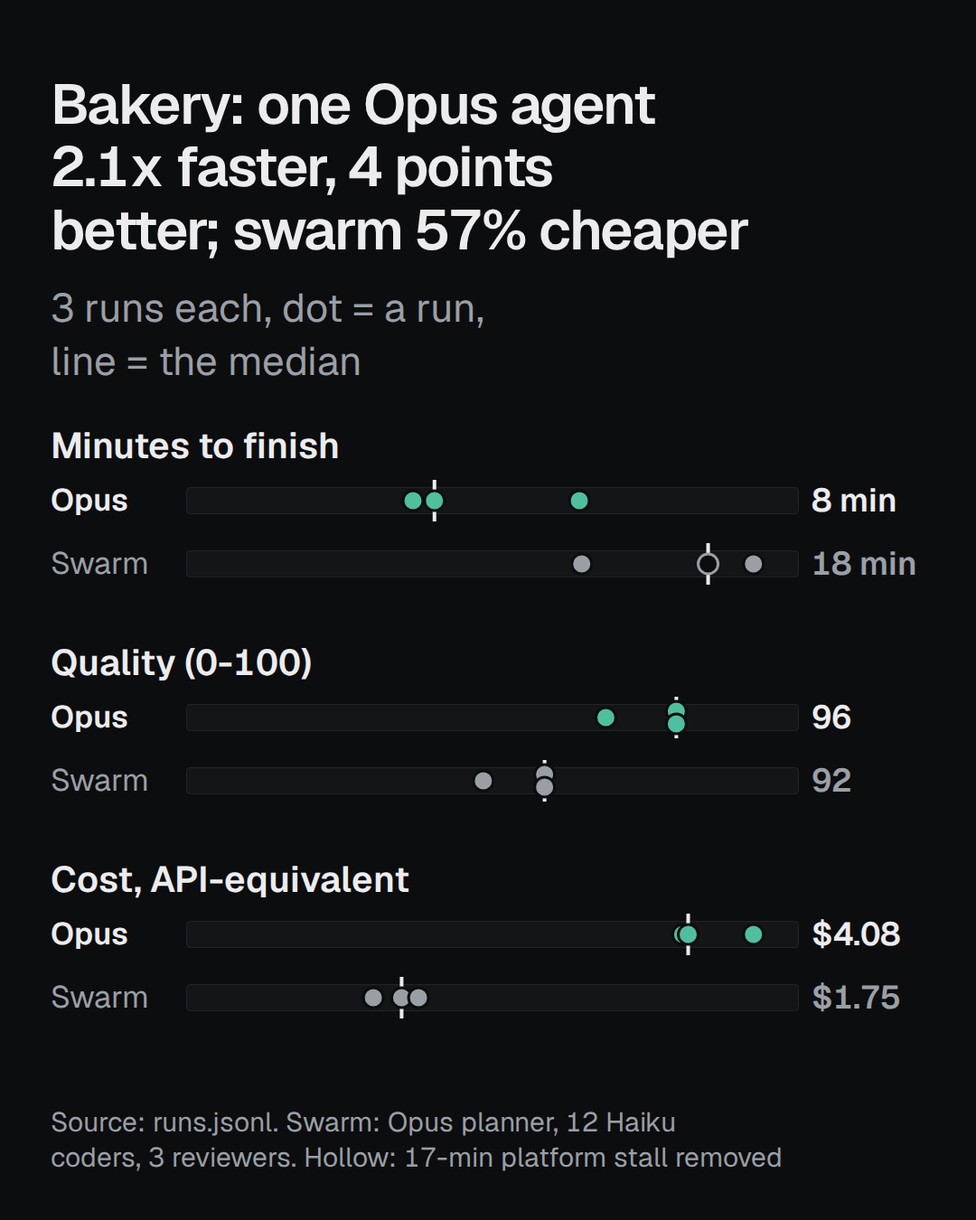
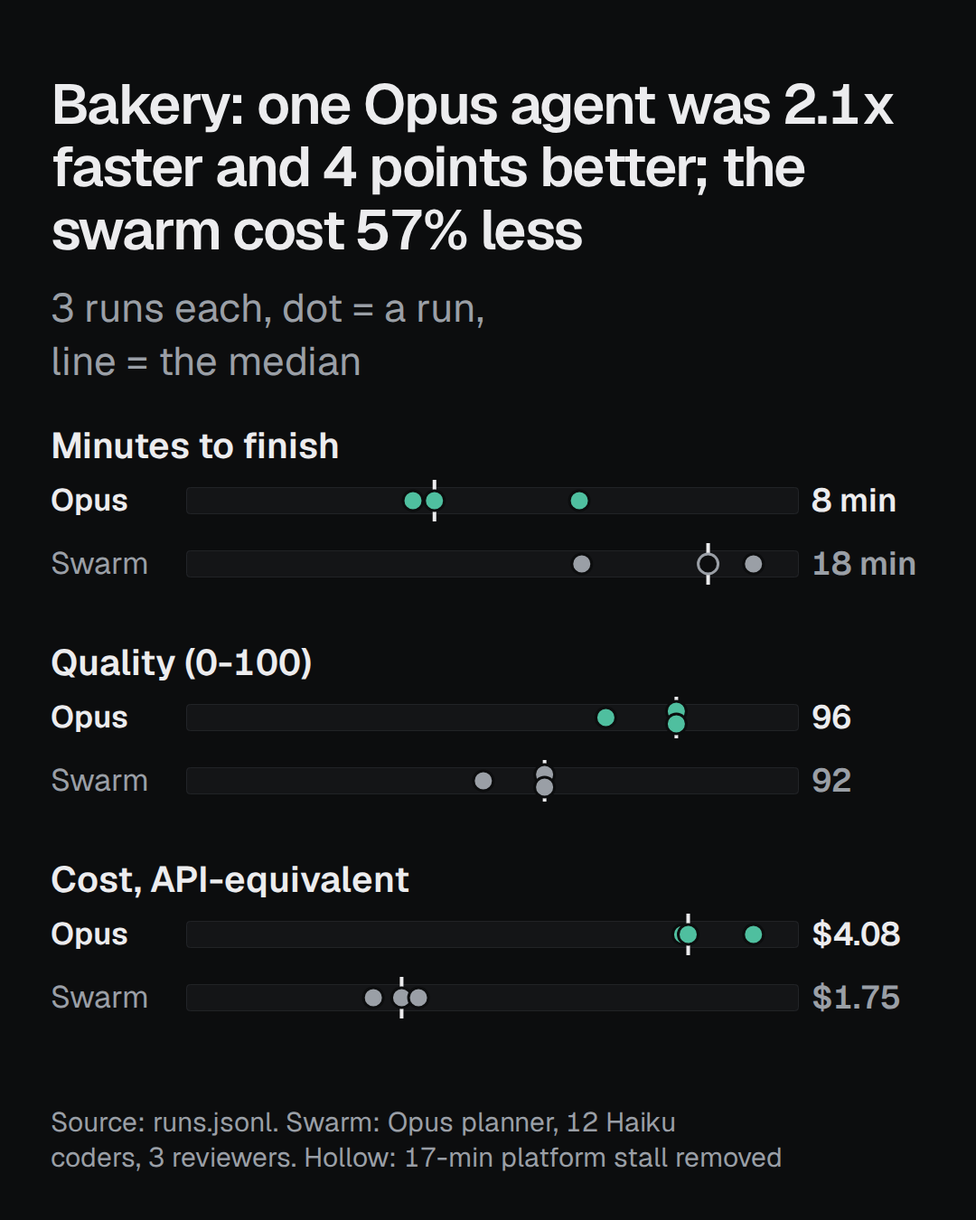
Lab charts: one generic one-Opus-vs-swarm chart per scenario (bakery now, club as soon as its runs land), headline worded from whichever way the numbers fall

Changed region(s): [[0.0611, 0.0622, 0.9167, 0.2178]]

diff --git a/docs/lab/charts/index.html b/docs/lab/charts/index.html
@@ -27,7 +27,7 @@ footer { margin-top: 56px; color: var(--dim); font-size: 13px; }
 <p>Real runs from public/lab/runs.jsonl: each dot is one run; quality is the lab score (hidden tests, floor, a Sonnet judge).</p></header>
 <section id="lab-bakery" aria-labelledby="lab-bakery-h">
 <h2 id="lab-bakery-h" hidden>Bakery: one Opus agent was 2.1x faster and 4 points better; the swarm cost 57% less</h2>
-<div class="L"><svg xmlns="http://www.w3.org/2000/svg" style="aspect-ratio:1920/1080" viewBox="0 0 1920 1080" role="img" aria-label="Bakery: one Opus agent was 2.1x faster and 4 points better; the swarm cost 57% less" font-family="Geist, 'Instrument Sans', system-ui, sans-serif"><rect width="1920" height="1080" fill="var(--bg)"/><text x="160" y="154.4" font-size="64" font-weight="600" fill="var(--fg)" letter-spacing="-1.6" style="font-variant-numeric:tabular-nums">Bakery: one Opus agent was 2.1x faster and 4 points better;</text><text x="160" y="226.08" font-size="64" font-weight="600" fill="var(--fg)" letter-spacing="-1.6" style="font-variant-numeric:tabular-nums">the swarm cost 57% less</text><text x="160" y="302.08000000000004" font-size="40" font-weight="400" fill="var(--dim)" style="font-variant-numeric:tabular-nums">3 runs each: a dot per run, a line at the median. The swarm is 16 agents</text><text x="520" y="390.08000000000004" font-size="36" font-weight="600" fill="var(--fg)" style="font-variant-numeric:tabular-nums">Minutes to finish</text><text x="160" y="459.08000000000004" font-size="36" font-weight="600" fill="var(--fg)" style="font-variant-numeric:tabular-nums">One Opus agent</text><rect x="520" y="432.08000000000004" width="240" height="30" rx="4" fill="var(--card)"/><rect x="520.5" y="432.58000000000004" width="239" height="29" rx="4" fill="none" stroke="var(--line)"/><rect x="615.2580491067163" y="424.08000000000004" width="4" height="46" fill="var(--fg)"><title>One Opus agent, median 8 min</title></rect><circle cx="674.0078341454093" cy="447.08000000000004" r="11" fill="var(--acc)" stroke="var(--bg)" stroke-width="3"/><circle cx="608.8506735454284" cy="447.08000000000004" r="11" fill="var(--acc)" stroke="var(--bg)" stroke-width="3"/><circle cx="617.2580491067163" cy="447.08000000000004" r="11" fill="var(--acc)" stroke="var(--bg)" stroke-width="3"/><text x="774" y="459.08000000000004" font-size="40" font-weight="600" fill="var(--fg)" style="font-variant-numeric:tabular-nums">8 min</text><text x="160" y="559.08" font-size="36" font-weight="400" fill="var(--dim)" style="font-variant-numeric:tabular-nums">Swarm (16 agents)</text><rect x="520" y="532.08" width="240" height="30" rx="4" fill="var(--card)"/><rect x="520.5" y="532.58" width="239" height="29" rx="4" fill="none" stroke="var(--line)"/><rect x="722.4520875131365" y="524.08" width="4" height="46" fill="var(--fg)"><title>Swarm (16 agents), median 18 min</title></rect><circle cx="674.9632177319194" cy="547.08" r="11" fill="var(--dim)" stroke="var(--bg)" stroke-width="3"/><circle cx="742.2222222222222" cy="547.08" r="11" fill="var(--dim)" stroke="var(--bg)" stroke-width="3"/><circle cx="724.4520875131365" cy="547.08" r="11" fill="var(--bg)" stroke="var(--dim)" stroke-width="3"/><text x="774" y="559.08" font-size="40" font-weight="600" fill="var(--dim)" style="font-variant-numeric:tabular-nums">18 min</text><text x="950" y="390.08000000000004" font-size="36" font-weight="600" fill="var(--fg)" style="font-variant-numeric:tabular-nums">Quality (0-100)</text><rect x="950" y="432.08000000000004" width="240" height="30" rx="4" fill="var(--card)"/><rect x="950.5" y="432.58000000000004" width="239" height="29" rx="4" fill="none" stroke="var(--line)"/><rect x="1140" y="424.08000000000004" width="4" height="46" fill="var(--fg)"><title>One Opus agent, median 96</title></rect><circle cx="1142" cy="440.08000000000004" r="11" fill="var(--acc)" stroke="var(--bg)" stroke-width="3"/><circle cx="1142" cy="454.08000000000004" r="11" fill="var(--acc)" stroke="var(--bg)" stroke-width="3"/><circle cx="1114.4" cy="447.08000000000004" r="11" fill="var(--acc)" stroke="var(--bg)" stroke-width="3"/><text x="1204" y="459.08000000000004" font-size="40" font-weight="600" fill="var(--fg)" style="font-variant-numeric:tabular-nums">96</text><rect x="950" y="532.08" width="240" height="30" rx="4" fill="var(--card)"/><rect x="950.5" y="532.58" width="239" height="29" rx="4" fill="none" stroke="var(--line)"/><rect x="1088.4" y="524.08" width="4" height="46" fill="var(--fg)"><title>Swarm (16 agents), median 92</title></rect><circle cx="1066.4" cy="547.08" r="11" fill="var(--dim)" stroke="var(--bg)" stroke-width="3"/><circle cx="1090.4" cy="540.08" r="11" fill="var(--dim)" stroke="var(--bg)" stroke-width="3"/><circle cx="1090.4" cy="554.08" r="11" fill="var(--dim)" stroke="var(--bg)" stroke-width="3"/><text x="1204" y="559.08" font-size="40" font-weight="600" fill="var(--dim)" style="font-variant-numeric:tabular-nums">92</text><text x="1380" y="390.08000000000004" font-size="36" font-weight="600" fill="var(--fg)" style="font-variant-numeric:tabular-nums">Cost, API-equivalent</text><rect x="1380" y="432.08000000000004" width="240" height="30" rx="4" fill="var(--card)"/><rect x="1380.5" y="432.58000000000004" width="239" height="29" rx="4" fill="none" stroke="var(--line)"/><rect x="1574.6423392827035" y="424.08000000000004" width="4" height="46" fill="var(--fg)"><title>One Opus agent, median $4.08</title></rect><circle cx="1574.4745525929138" cy="447.08000000000004" r="11" fill="var(--acc)" stroke="var(--bg)" stroke-width="3"/><circle cx="1576.6423392827035" cy="447.08000000000004" r="11" fill="var(--acc)" stroke="var(--bg)" stroke-width="3"/><circle cx="1602.2222222222222" cy="447.08000000000004" r="11" fill="var(--acc)" stroke="var(--bg)" stroke-width="3"/><text x="1634" y="459.08000000000004" font-size="40" font-weight="600" fill="var(--fg)" style="font-variant-numeric:tabular-nums">$4.08</text><rect x="1380" y="532.08" width="240" height="30" rx="4" fill="var(--card)"/><rect x="1380.5" y="532.58" width="239" height="29" rx="4" fill="none" stroke="var(--line)"/><rect x="1462.3991617891465" y="524.08" width="4" height="46" fill="var(--fg)"><title>Swarm (16 agents), median $1.75</title></rect><circle cx="1464.3991617891465" cy="547.08" r="11" fill="var(--dim)" stroke="var(--bg)" stroke-width="3"/><circle cx="1453.3193631524437" cy="547.08" r="11" fill="var(--dim)" stroke="var(--bg)" stroke-width="3"/><circle cx="1470.9988679336175" cy="547.08" r="11" fill="var(--dim)" stroke="var(--bg)" stroke-width="3"/><text x="1634" y="559.08" font-size="40" font-weight="600" fill="var(--dim)" style="font-variant-numeric:tabular-nums">$1.75</text><text x="160" y="840" font-size="26" font-weight="400" fill="var(--dim)" style="font-variant-numeric:tabular-nums">Source: runs.jsonl. Swarm: Opus planner, 12 Haiku coders, 3 reviewers. Hollow: 17-min platform stall removed</text></svg></div><div class="P"><svg xmlns="http://www.w3.org/2000/svg" style="aspect-ratio:1080/1350" viewBox="0 0 1080 1350" role="img" aria-label="Bakery: one Opus agent was 2.1x faster and 4 points better; the swarm cost 57% less" font-family="Geist, 'Instrument Sans', system-ui, sans-serif"><rect width="1080" height="1350" fill="var(--bg)"/><text x="56" y="136.7" font-size="62" font-weight="600" fill="var(--fg)" letter-spacing="-1.6" style="font-variant-numeric:tabular-nums">Bakery: one Opus agent</text><text x="56" y="206.14" font-size="62" font-weight="600" fill="var(--fg)" letter-spacing="-1.6" style="font-variant-numeric:tabular-nums">2.1x faster, 4 points</text><text x="56" y="275.58000000000004" font-size="62" font-weight="600" fill="var(--fg)" letter-spacing="-1.6" style="font-variant-numeric:tabular-nums">better; swarm 57% cheaper</text><text x="56" y="355.58000000000004" font-size="44" font-weight="400" fill="var(--dim)" style="font-variant-numeric:tabular-nums">3 runs each, dot = a run,</text><text x="56" y="414.98" font-size="44" font-weight="400" fill="var(--dim)" style="font-variant-numeric:tabular-nums">line = the median</text><text x="56" y="506.98" font-size="40" font-weight="600" fill="var(--fg)" style="font-variant-numeric:tabular-nums">Minutes to finish</text><text x="56" y="564.98" font-size="34" font-weight="600" fill="var(--fg)" style="font-variant-numeric:tabular-nums">Opus</text><rect x="206" y="538.98" width="678" height="30" rx="4" fill="var(--card)"/><rect x="206.5" y="539.48" width="677" height="29" rx="4" fill="none" stroke="var(--line)"/><rect x="478.75398872647366" y="530.98" width="4" height="46" fill="var(--fg)"><title>One Opus agent, median 8 min</title></rect><circle cx="641.0721314607815" cy="553.98" r="11" fill="var(--acc)" stroke="var(--bg)" stroke-width="3"/><circle cx="457.00315276583547" cy="553.98" r="11" fill="var(--acc)" stroke="var(--bg)" stroke-width="3"/><circle cx="480.75398872647366" cy="553.98" r="11" fill="var(--acc)" stroke="var(--bg)" stroke-width="3"/><text x="898" y="565.98" font-size="36" font-weight="600" fill="var(--fg)" style="font-variant-numeric:tabular-nums">8 min</text><text x="56" y="634.98" font-size="34" font-weight="400" fill="var(--dim)" style="font-variant-numeric:tabular-nums">Swarm</text><rect x="206" y="608.98" width="678" height="30" rx="4" fill="var(--card)"/><rect x="206.5" y="609.48" width="677" height="29" rx="4" fill="none" stroke="var(--line)"/><rect x="781.5771472246106" y="600.98" width="4" height="46" fill="var(--fg)"><title>Swarm (16 agents), median 18 min</title></rect><circle cx="643.7710900926722" cy="623.98" r="11" fill="var(--dim)" stroke="var(--bg)" stroke-width="3"/><circle cx="833.7777777777777" cy="623.98" r="11" fill="var(--dim)" stroke="var(--bg)" stroke-width="3"/><circle cx="783.5771472246106" cy="623.98" r="11" fill="var(--bg)" stroke="var(--dim)" stroke-width="3"/><text x="898" y="635.98" font-size="36" font-weight="600" fill="var(--dim)" style="font-variant-numeric:tabular-nums">18 min</text><text x="56" y="746.98" font-size="40" font-weight="600" fill="var(--fg)" style="font-variant-numeric:tabular-nums">Quality (0-100)</text><text x="56" y="804.98" font-size="34" font-weight="600" fill="var(--fg)" style="font-variant-numeric:tabular-nums">Opus</text><rect x="206" y="778.98" width="678" height="30" rx="4" fill="var(--card)"/><rect x="206.5" y="779.48" width="677" height="29" rx="4" fill="none" stroke="var(--line)"/><rect x="746.4" y="770.98" width="4" height="46" fill="var(--fg)"><title>One Opus agent, median 96</title></rect><circle cx="748.4" cy="786.98" r="11" fill="var(--acc)" stroke="var(--bg)" stroke-width="3"/><circle cx="748.4" cy="800.98" r="11" fill="var(--acc)" stroke="var(--bg)" stroke-width="3"/><circle cx="670.4300000000001" cy="793.98" r="11" fill="var(--acc)" stroke="var(--bg)" stroke-width="3"/><text x="898" y="805.98" font-size="36" font-weight="600" fill="var(--fg)" style="font-variant-numeric:tabular-nums">96</text><text x="56" y="874.98" font-size="34" font-weight="400" fill="var(--dim)" style="font-variant-numeric:tabular-nums">Swarm</text><rect x="206" y="848.98" width="678" height="30" rx="4" fill="var(--card)"/><rect x="206.5" y="849.48" width="677" height="29" rx="4" fill="none" stroke="var(--line)"/><rect x="600.6300000000001" y="840.98" width="4" height="46" fill="var(--fg)"><title>Swarm (16 agents), median 92</title></rect><circle cx="534.8300000000002" cy="863.98" r="11" fill="var(--dim)" stroke="var(--bg)" stroke-width="3"/><circle cx="602.6300000000001" cy="856.98" r="11" fill="var(--dim)" stroke="var(--bg)" stroke-width="3"/><circle cx="602.6300000000001" cy="870.98" r="11" fill="var(--dim)" stroke="var(--bg)" stroke-width="3"/><text x="898" y="875.98" font-size="36" font-weight="600" fill="var(--dim)" style="font-variant-numeric:tabular-nums">92</text><text x="56" y="986.98" font-size="40" font-weight="600" fill="var(--fg)" style="font-variant-numeric:tabular-nums">Cost, API-equivalent</text><text x="56" y="1044.98" font-size="34" font-weight="600" fill="var(--fg)" style="font-variant-numeric:tabular-nums">Opus</text><rect x="206" y="1018.98" width="678" height="30" rx="4" fill="var(--card)"/><rect x="206.5" y="1019.48" width="677" height="29" rx="4" fill="none" stroke="var(--line)"/><rect x="759.5146084736373" y="1010.98" width="4" height="46" fill="var(--fg)"><title>One Opus agent, median $4.08</title></rect><circle cx="755.3906110749813" cy="1033.98" r="11" fill="var(--acc)" stroke="var(--bg)" stroke-width="3"/><circle cx="761.5146084736373" cy="1033.98" r="11" fill="var(--acc)" stroke="var(--bg)" stroke-width="3"/><circle cx="833.7777777777778" cy="1033.98" r="11" fill="var(--acc)" stroke="var(--bg)" stroke-width="3"/><text x="898" y="1045.98" font-size="36" font-weight="600" fill="var(--fg)" style="font-variant-numeric:tabular-nums">$4.08</text><text x="56" y="1114.98" font-size="34" font-weight="400" fill="var(--dim)" style="font-variant-numeric:tabular-nums">Swarm</text><rect x="206" y="1088.98" width="678" height="30" rx="4" fill="var(--card)"/><rect x="206.5" y="1089.48" width="677" height="29" rx="4" fill="none" stroke="var(--line)"/><rect x="442.42763205433914" y="1080.98" width="4" height="46" fill="var(--fg)"><title>Swarm (16 agents), median $1.75</title></rect><circle cx="444.42763205433914" cy="1103.98" r="11" fill="var(--dim)" stroke="var(--bg)" stroke-width="3"/><circle cx="413.1272009056531" cy="1103.98" r="11" fill="var(--dim)" stroke="var(--bg)" stroke-width="3"/><circle cx="463.0718019124696" cy="1103.98" r="11" fill="var(--dim)" stroke="var(--bg)" stroke-width="3"/><text x="898" y="1115.98" font-size="36" font-weight="600" fill="var(--dim)" style="font-variant-numeric:tabular-nums">$1.75</text><text x="56" y="1252" font-size="30" font-weight="400" fill="var(--dim)" style="font-variant-numeric:tabular-nums">Source: runs.jsonl. Swarm: Opus planner, 12 Haiku</text><text x="56" y="1291" font-size="30" font-weight="400" fill="var(--dim)" style="font-variant-numeric:tabular-nums">coders, 3 reviewers. Hollow: 17-min platform stall removed</text></svg></div>
+<div class="L"><svg xmlns="http://www.w3.org/2000/svg" style="aspect-ratio:1920/1080" viewBox="0 0 1920 1080" role="img" aria-label="Bakery: one Opus agent was 2.1x faster and 4 points better; the swarm cost 57% less" font-family="Geist, 'Instrument Sans', system-ui, sans-serif"><rect width="1920" height="1080" fill="var(--bg)"/><text x="160" y="154.4" font-size="64" font-weight="600" fill="var(--fg)" letter-spacing="-1.6" style="font-variant-numeric:tabular-nums">Bakery: one Opus agent was 2.1x faster and 4 points better;</text><text x="160" y="226.08" font-size="64" font-weight="600" fill="var(--fg)" letter-spacing="-1.6" style="font-variant-numeric:tabular-nums">the swarm cost 57% less</text><text x="160" y="302.08000000000004" font-size="40" font-weight="400" fill="var(--dim)" style="font-variant-numeric:tabular-nums">3 runs each: a dot per run, a line at the median. The swarm is 16 agents</text><text x="520" y="390.08000000000004" font-size="36" font-weight="600" fill="var(--fg)" style="font-variant-numeric:tabular-nums">Minutes to finish</text><text x="160" y="459.08000000000004" font-size="36" font-weight="600" fill="var(--fg)" style="font-variant-numeric:tabular-nums">One Opus agent</text><rect x="520" y="432.08000000000004" width="240" height="30" rx="4" fill="var(--card)"/><rect x="520.5" y="432.58000000000004" width="239" height="29" rx="4" fill="none" stroke="var(--line)"/><rect x="615.2580491067163" y="424.08000000000004" width="4" height="46" fill="var(--fg)"><title>One Opus agent, median 8 min</title></rect><circle cx="674.0078341454093" cy="447.08000000000004" r="11" fill="var(--acc)" stroke="var(--bg)" stroke-width="3"/><circle cx="608.8506735454284" cy="447.08000000000004" r="11" fill="var(--acc)" stroke="var(--bg)" stroke-width="3"/><circle cx="617.2580491067163" cy="447.08000000000004" r="11" fill="var(--acc)" stroke="var(--bg)" stroke-width="3"/><text x="774" y="459.08000000000004" font-size="40" font-weight="600" fill="var(--fg)" style="font-variant-numeric:tabular-nums">8 min</text><text x="160" y="559.08" font-size="36" font-weight="400" fill="var(--dim)" style="font-variant-numeric:tabular-nums">Swarm (16 agents)</text><rect x="520" y="532.08" width="240" height="30" rx="4" fill="var(--card)"/><rect x="520.5" y="532.58" width="239" height="29" rx="4" fill="none" stroke="var(--line)"/><rect x="722.4520875131365" y="524.08" width="4" height="46" fill="var(--fg)"><title>Swarm (16 agents), median 18 min</title></rect><circle cx="674.9632177319194" cy="547.08" r="11" fill="var(--dim)" stroke="var(--bg)" stroke-width="3"/><circle cx="742.2222222222222" cy="547.08" r="11" fill="var(--dim)" stroke="var(--bg)" stroke-width="3"/><circle cx="724.4520875131365" cy="547.08" r="11" fill="var(--bg)" stroke="var(--dim)" stroke-width="3"/><text x="774" y="559.08" font-size="40" font-weight="600" fill="var(--dim)" style="font-variant-numeric:tabular-nums">18 min</text><text x="950" y="390.08000000000004" font-size="36" font-weight="600" fill="var(--fg)" style="font-variant-numeric:tabular-nums">Quality (0-100)</text><rect x="950" y="432.08000000000004" width="240" height="30" rx="4" fill="var(--card)"/><rect x="950.5" y="432.58000000000004" width="239" height="29" rx="4" fill="none" stroke="var(--line)"/><rect x="1140" y="424.08000000000004" width="4" height="46" fill="var(--fg)"><title>One Opus agent, median 96</title></rect><circle cx="1142" cy="440.08000000000004" r="11" fill="var(--acc)" stroke="var(--bg)" stroke-width="3"/><circle cx="1142" cy="454.08000000000004" r="11" fill="var(--acc)" stroke="var(--bg)" stroke-width="3"/><circle cx="1114.4" cy="447.08000000000004" r="11" fill="var(--acc)" stroke="var(--bg)" stroke-width="3"/><text x="1204" y="459.08000000000004" font-size="40" font-weight="600" fill="var(--fg)" style="font-variant-numeric:tabular-nums">96</text><rect x="950" y="532.08" width="240" height="30" rx="4" fill="var(--card)"/><rect x="950.5" y="532.58" width="239" height="29" rx="4" fill="none" stroke="var(--line)"/><rect x="1088.4" y="524.08" width="4" height="46" fill="var(--fg)"><title>Swarm (16 agents), median 92</title></rect><circle cx="1066.4" cy="547.08" r="11" fill="var(--dim)" stroke="var(--bg)" stroke-width="3"/><circle cx="1090.4" cy="540.08" r="11" fill="var(--dim)" stroke="var(--bg)" stroke-width="3"/><circle cx="1090.4" cy="554.08" r="11" fill="var(--dim)" stroke="var(--bg)" stroke-width="3"/><text x="1204" y="559.08" font-size="40" font-weight="600" fill="var(--dim)" style="font-variant-numeric:tabular-nums">92</text><text x="1380" y="390.08000000000004" font-size="36" font-weight="600" fill="var(--fg)" style="font-variant-numeric:tabular-nums">Cost, API-equivalent</text><rect x="1380" y="432.08000000000004" width="240" height="30" rx="4" fill="var(--card)"/><rect x="1380.5" y="432.58000000000004" width="239" height="29" rx="4" fill="none" stroke="var(--line)"/><rect x="1574.6423392827035" y="424.08000000000004" width="4" height="46" fill="var(--fg)"><title>One Opus agent, median $4.08</title></rect><circle cx="1574.4745525929138" cy="447.08000000000004" r="11" fill="var(--acc)" stroke="var(--bg)" stroke-width="3"/><circle cx="1576.6423392827035" cy="447.08000000000004" r="11" fill="var(--acc)" stroke="var(--bg)" stroke-width="3"/><circle cx="1602.2222222222222" cy="447.08000000000004" r="11" fill="var(--acc)" stroke="var(--bg)" stroke-width="3"/><text x="1634" y="459.08000000000004" font-size="40" font-weight="600" fill="var(--fg)" style="font-variant-numeric:tabular-nums">$4.08</text><rect x="1380" y="532.08" width="240" height="30" rx="4" fill="var(--card)"/><rect x="1380.5" y="532.58" width="239" height="29" rx="4" fill="none" stroke="var(--line)"/><rect x="1462.3991617891465" y="524.08" width="4" height="46" fill="var(--fg)"><title>Swarm (16 agents), median $1.75</title></rect><circle cx="1464.3991617891465" cy="547.08" r="11" fill="var(--dim)" stroke="var(--bg)" stroke-width="3"/><circle cx="1453.3193631524437" cy="547.08" r="11" fill="var(--dim)" stroke="var(--bg)" stroke-width="3"/><circle cx="1470.9988679336175" cy="547.08" r="11" fill="var(--dim)" stroke="var(--bg)" stroke-width="3"/><text x="1634" y="559.08" font-size="40" font-weight="600" fill="var(--dim)" style="font-variant-numeric:tabular-nums">$1.75</text><text x="160" y="840" font-size="26" font-weight="400" fill="var(--dim)" style="font-variant-numeric:tabular-nums">Source: runs.jsonl. Swarm: Opus planner, 12 Haiku coders, 3 reviewers. Hollow: 17-min platform stall removed</text></svg></div><div class="P"><svg xmlns="http://www.w3.org/2000/svg" style="aspect-ratio:1080/1350" viewBox="0 0 1080 1350" role="img" aria-label="Bakery: one Opus agent was 2.1x faster and 4 points better; the swarm cost 57% less" font-family="Geist, 'Instrument Sans', system-ui, sans-serif"><rect width="1080" height="1350" fill="var(--bg)"/><text x="56" y="136.7" font-size="62" font-weight="600" fill="var(--fg)" letter-spacing="-1.6" style="font-variant-numeric:tabular-nums">Bakery: one Opus agent was 2.1x</text><text x="56" y="206.14" font-size="62" font-weight="600" fill="var(--fg)" letter-spacing="-1.6" style="font-variant-numeric:tabular-nums">faster and 4 points better; the</text><text x="56" y="275.58000000000004" font-size="62" font-weight="600" fill="var(--fg)" letter-spacing="-1.6" style="font-variant-numeric:tabular-nums">swarm cost 57% less</text><text x="56" y="355.58000000000004" font-size="44" font-weight="400" fill="var(--dim)" style="font-variant-numeric:tabular-nums">3 runs each, dot = a run,</text><text x="56" y="414.98" font-size="44" font-weight="400" fill="var(--dim)" style="font-variant-numeric:tabular-nums">line = the median</text><text x="56" y="506.98" font-size="40" font-weight="600" fill="var(--fg)" style="font-variant-numeric:tabular-nums">Minutes to finish</text><text x="56" y="564.98" font-size="34" font-weight="600" fill="var(--fg)" style="font-variant-numeric:tabular-nums">Opus</text><rect x="206" y="538.98" width="678" height="30" rx="4" fill="var(--card)"/><rect x="206.5" y="539.48" width="677" height="29" rx="4" fill="none" stroke="var(--line)"/><rect x="478.75398872647366" y="530.98" width="4" height="46" fill="var(--fg)"><title>One Opus agent, median 8 min</title></rect><circle cx="641.0721314607815" cy="553.98" r="11" fill="var(--acc)" stroke="var(--bg)" stroke-width="3"/><circle cx="457.00315276583547" cy="553.98" r="11" fill="var(--acc)" stroke="var(--bg)" stroke-width="3"/><circle cx="480.75398872647366" cy="553.98" r="11" fill="var(--acc)" stroke="var(--bg)" stroke-width="3"/><text x="898" y="565.98" font-size="36" font-weight="600" fill="var(--fg)" style="font-variant-numeric:tabular-nums">8 min</text><text x="56" y="634.98" font-size="34" font-weight="400" fill="var(--dim)" style="font-variant-numeric:tabular-nums">Swarm</text><rect x="206" y="608.98" width="678" height="30" rx="4" fill="var(--card)"/><rect x="206.5" y="609.48" width="677" height="29" rx="4" fill="none" stroke="var(--line)"/><rect x="781.5771472246106" y="600.98" width="4" height="46" fill="var(--fg)"><title>Swarm (16 agents), median 18 min</title></rect><circle cx="643.7710900926722" cy="623.98" r="11" fill="var(--dim)" stroke="var(--bg)" stroke-width="3"/><circle cx="833.7777777777777" cy="623.98" r="11" fill="var(--dim)" stroke="var(--bg)" stroke-width="3"/><circle cx="783.5771472246106" cy="623.98" r="11" fill="var(--bg)" stroke="var(--dim)" stroke-width="3"/><text x="898" y="635.98" font-size="36" font-weight="600" fill="var(--dim)" style="font-variant-numeric:tabular-nums">18 min</text><text x="56" y="746.98" font-size="40" font-weight="600" fill="var(--fg)" style="font-variant-numeric:tabular-nums">Quality (0-100)</text><text x="56" y="804.98" font-size="34" font-weight="600" fill="var(--fg)" style="font-variant-numeric:tabular-nums">Opus</text><rect x="206" y="778.98" width="678" height="30" rx="4" fill="var(--card)"/><rect x="206.5" y="779.48" width="677" height="29" rx="4" fill="none" stroke="var(--line)"/><rect x="746.4" y="770.98" width="4" height="46" fill="var(--fg)"><title>One Opus agent, median 96</title></rect><circle cx="748.4" cy="786.98" r="11" fill="var(--acc)" stroke="var(--bg)" stroke-width="3"/><circle cx="748.4" cy="800.98" r="11" fill="var(--acc)" stroke="var(--bg)" stroke-width="3"/><circle cx="670.4300000000001" cy="793.98" r="11" fill="var(--acc)" stroke="var(--bg)" stroke-width="3"/><text x="898" y="805.98" font-size="36" font-weight="600" fill="var(--fg)" style="font-variant-numeric:tabular-nums">96</text><text x="56" y="874.98" font-size="34" font-weight="400" fill="var(--dim)" style="font-variant-numeric:tabular-nums">Swarm</text><rect x="206" y="848.98" width="678" height="30" rx="4" fill="var(--card)"/><rect x="206.5" y="849.48" width="677" height="29" rx="4" fill="none" stroke="var(--line)"/><rect x="600.6300000000001" y="840.98" width="4" height="46" fill="var(--fg)"><title>Swarm (16 agents), median 92</title></rect><circle cx="534.8300000000002" cy="863.98" r="11" fill="var(--dim)" stroke="var(--bg)" stroke-width="3"/><circle cx="602.6300000000001" cy="856.98" r="11" fill="var(--dim)" stroke="var(--bg)" stroke-width="3"/><circle cx="602.6300000000001" cy="870.98" r="11" fill="var(--dim)" stroke="var(--bg)" stroke-width="3"/><text x="898" y="875.98" font-size="36" font-weight="600" fill="var(--dim)" style="font-variant-numeric:tabular-nums">92</text><text x="56" y="986.98" font-size="40" font-weight="600" fill="var(--fg)" style="font-variant-numeric:tabular-nums">Cost, API-equivalent</text><text x="56" y="1044.98" font-size="34" font-weight="600" fill="var(--fg)" style="font-variant-numeric:tabular-nums">Opus</text><rect x="206" y="1018.98" width="678" height="30" rx="4" fill="var(--card)"/><rect x="206.5" y="1019.48" width="677" height="29" rx="4" fill="none" stroke="var(--line)"/><rect x="759.5146084736373" y="1010.98" width="4" height="46" fill="var(--fg)"><title>One Opus agent, median $4.08</title></rect><circle cx="755.3906110749813" cy="1033.98" r="11" fill="var(--acc)" stroke="var(--bg)" stroke-width="3"/><circle cx="761.5146084736373" cy="1033.98" r="11" fill="var(--acc)" stroke="var(--bg)" stroke-width="3"/><circle cx="833.7777777777778" cy="1033.98" r="11" fill="var(--acc)" stroke="var(--bg)" stroke-width="3"/><text x="898" y="1045.98" font-size="36" font-weight="600" fill="var(--fg)" style="font-variant-numeric:tabular-nums">$4.08</text><text x="56" y="1114.98" font-size="34" font-weight="400" fill="var(--dim)" style="font-variant-numeric:tabular-nums">Swarm</text><rect x="206" y="1088.98" width="678" height="30" rx="4" fill="var(--card)"/><rect x="206.5" y="1089.48" width="677" height="29" rx="4" fill="none" stroke="var(--line)"/><rect x="442.42763205433914" y="1080.98" width="4" height="46" fill="var(--fg)"><title>Swarm (16 agents), median $1.75</title></rect><circle cx="444.42763205433914" cy="1103.98" r="11" fill="var(--dim)" stroke="var(--bg)" stroke-width="3"/><circle cx="413.1272009056531" cy="1103.98" r="11" fill="var(--dim)" stroke="var(--bg)" stroke-width="3"/><circle cx="463.0718019124696" cy="1103.98" r="11" fill="var(--dim)" stroke="var(--bg)" stroke-width="3"/><text x="898" y="1115.98" font-size="36" font-weight="600" fill="var(--dim)" style="font-variant-numeric:tabular-nums">$1.75</text><text x="56" y="1252" font-size="30" font-weight="400" fill="var(--dim)" style="font-variant-numeric:tabular-nums">Source: runs.jsonl. Swarm: Opus planner, 12 Haiku</text><text x="56" y="1291" font-size="30" font-weight="400" fill="var(--dim)" style="font-variant-numeric:tabular-nums">coders, 3 reviewers. Hollow: 17-min platform stall removed</text></svg></div>
 <details><summary>The numbers</summary><table><tr><th>run</th><th>variant</th><th>minutes</th><th>platform stall</th><th>quality</th><th>API-equivalent $</th></tr><tr><td>lab-bakery-712d7-r1</td><td>one Opus agent</td><td>13.4</td><td></td><td>96</td><td>4.04</td></tr><tr><td>lab-bakery-aa826-r2</td><td>one Opus agent</td><td>7.8</td><td></td><td>96</td><td>4.08</td></tr><tr><td>lab-bakery-aa826-r3</td><td>one Opus agent</td><td>8.5</td><td></td><td>93.7</td><td>4.61</td></tr><tr><td>lab-bakery-7fe05-r1</td><td>swarm</td><td>13.5</td><td></td><td>89.7</td><td>1.75</td></tr><tr><td>lab-bakery-bfe16-r2</td><td>swarm</td><td>19.4</td><td></td><td>91.7</td><td>1.52</td></tr><tr><td>lab-bakery-bfe16-r3</td><td>swarm</td><td>34.8</td><td>17.0 min</td><td>91.7</td><td>1.89</td></tr></table>
 <p class="files">Source: public/lab/runs.jsonl, scenario bakery, status done. Files: <a href="lab-bakery-1920x1080-dark.png">1920x1080 dark</a> <a href="lab-bakery-1920x1080-light.png">1920x1080 light</a> <a href="lab-bakery-1080x1350-dark.png">1080x1350 dark</a> <a href="lab-bakery-1080x1350-light.png">1080x1350 light</a></p></details>
 </section>
